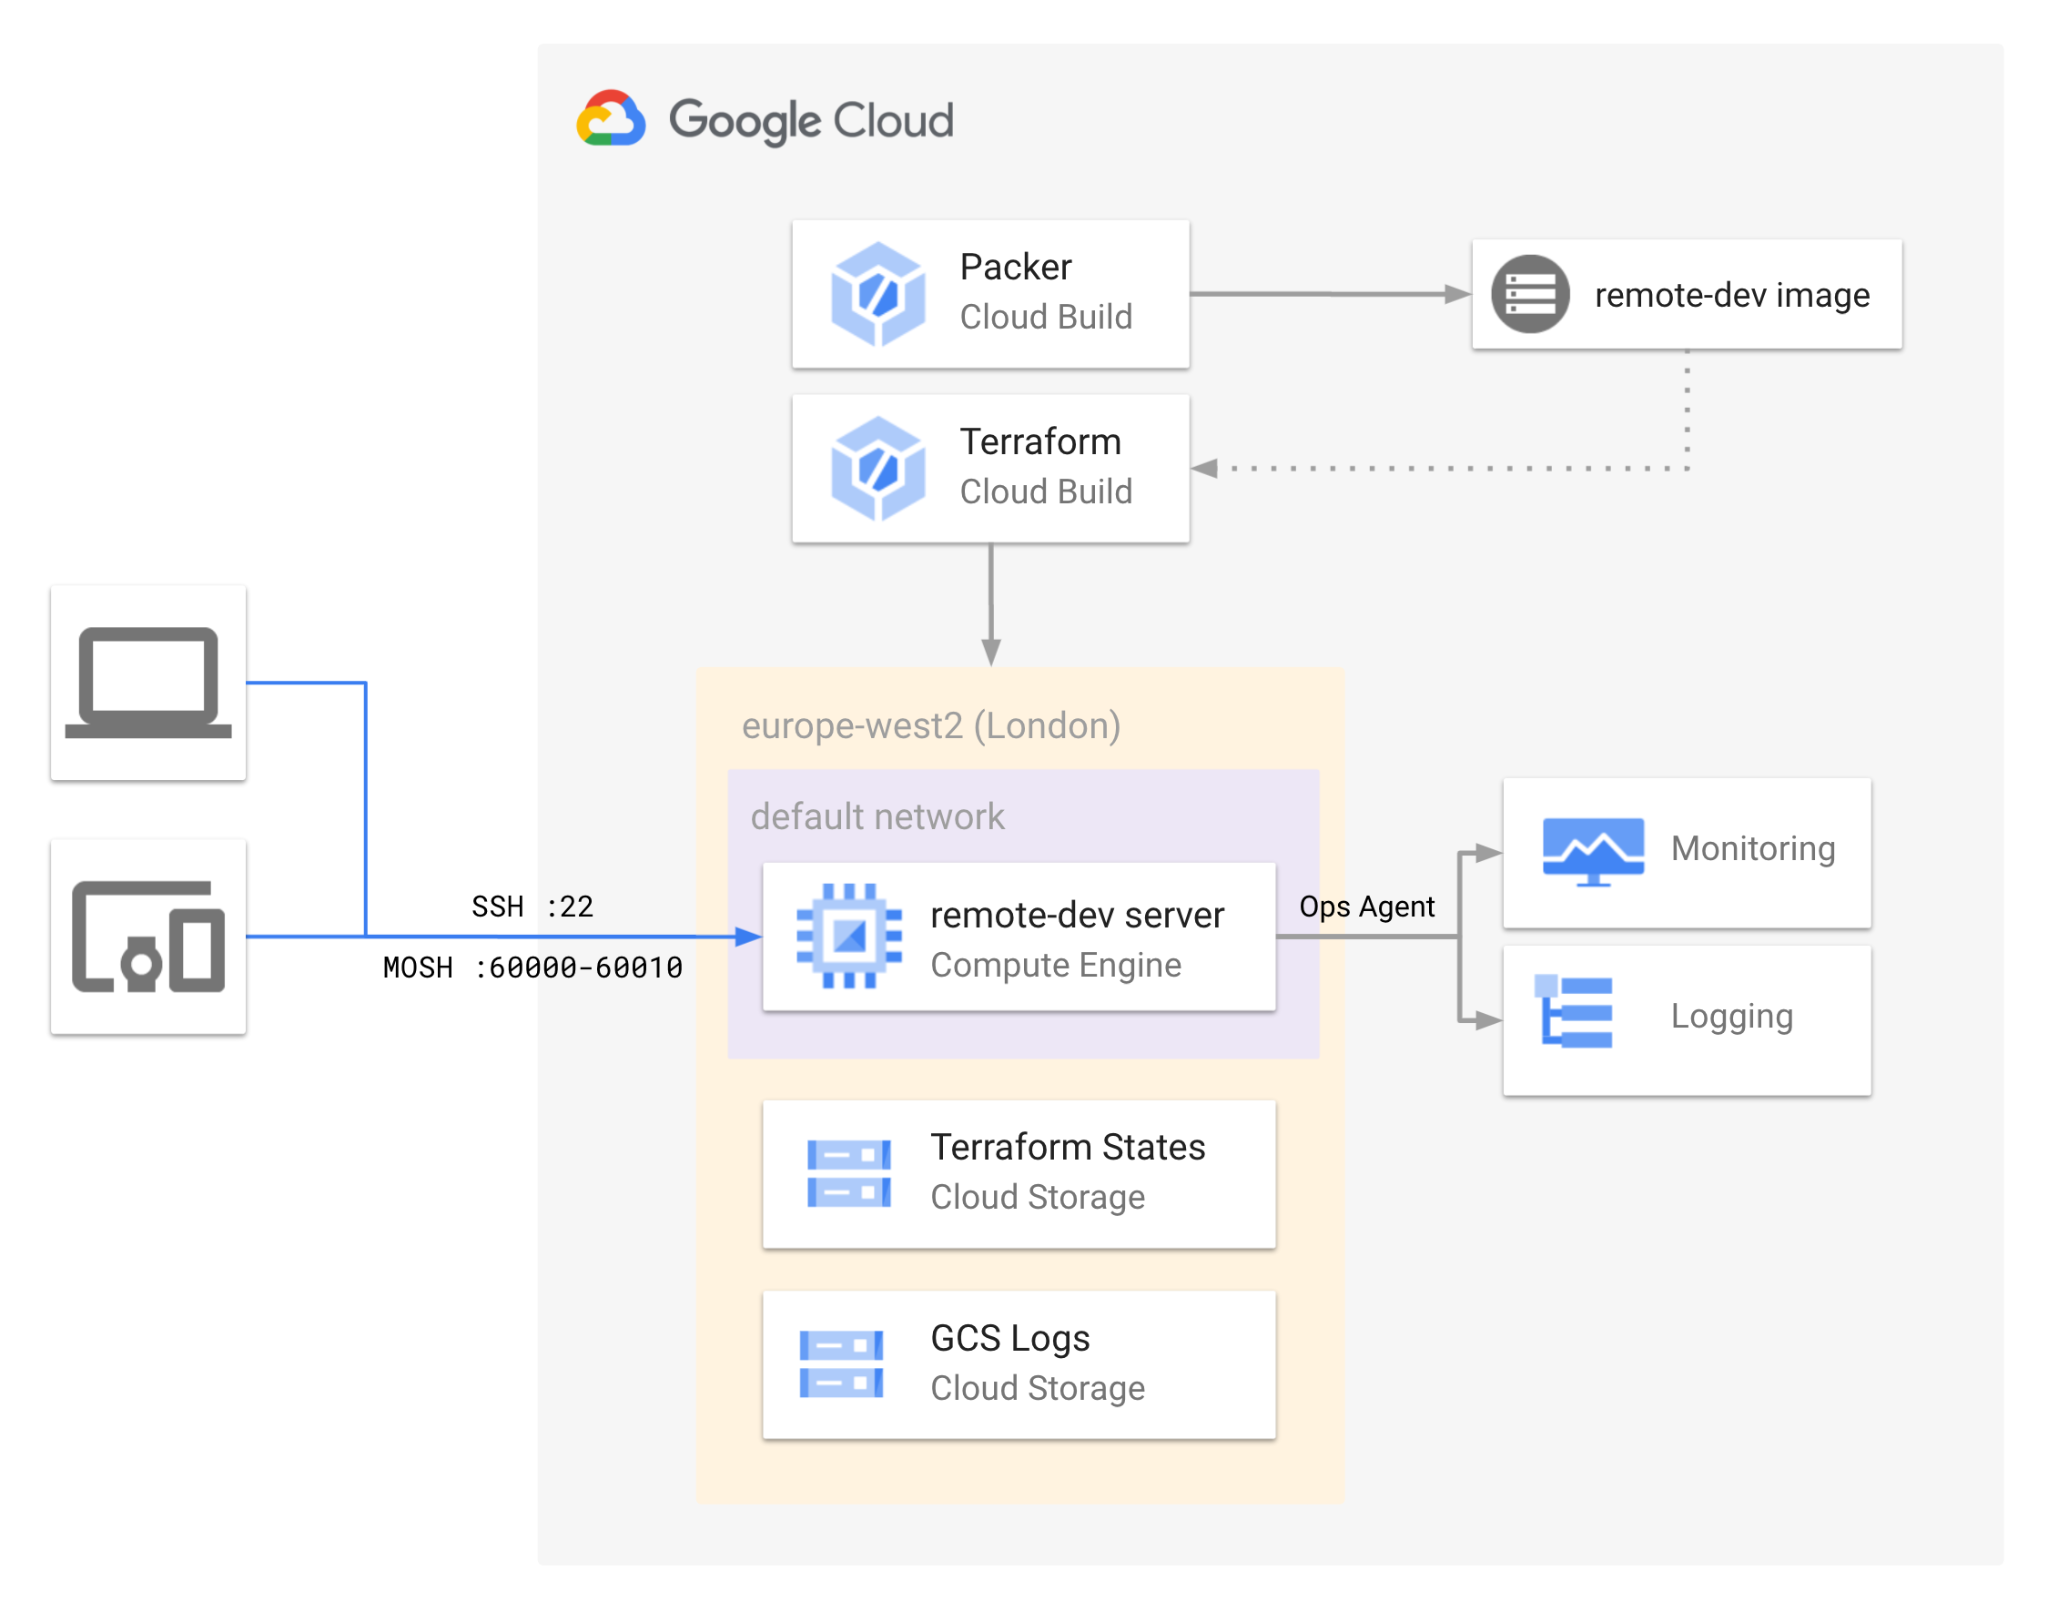
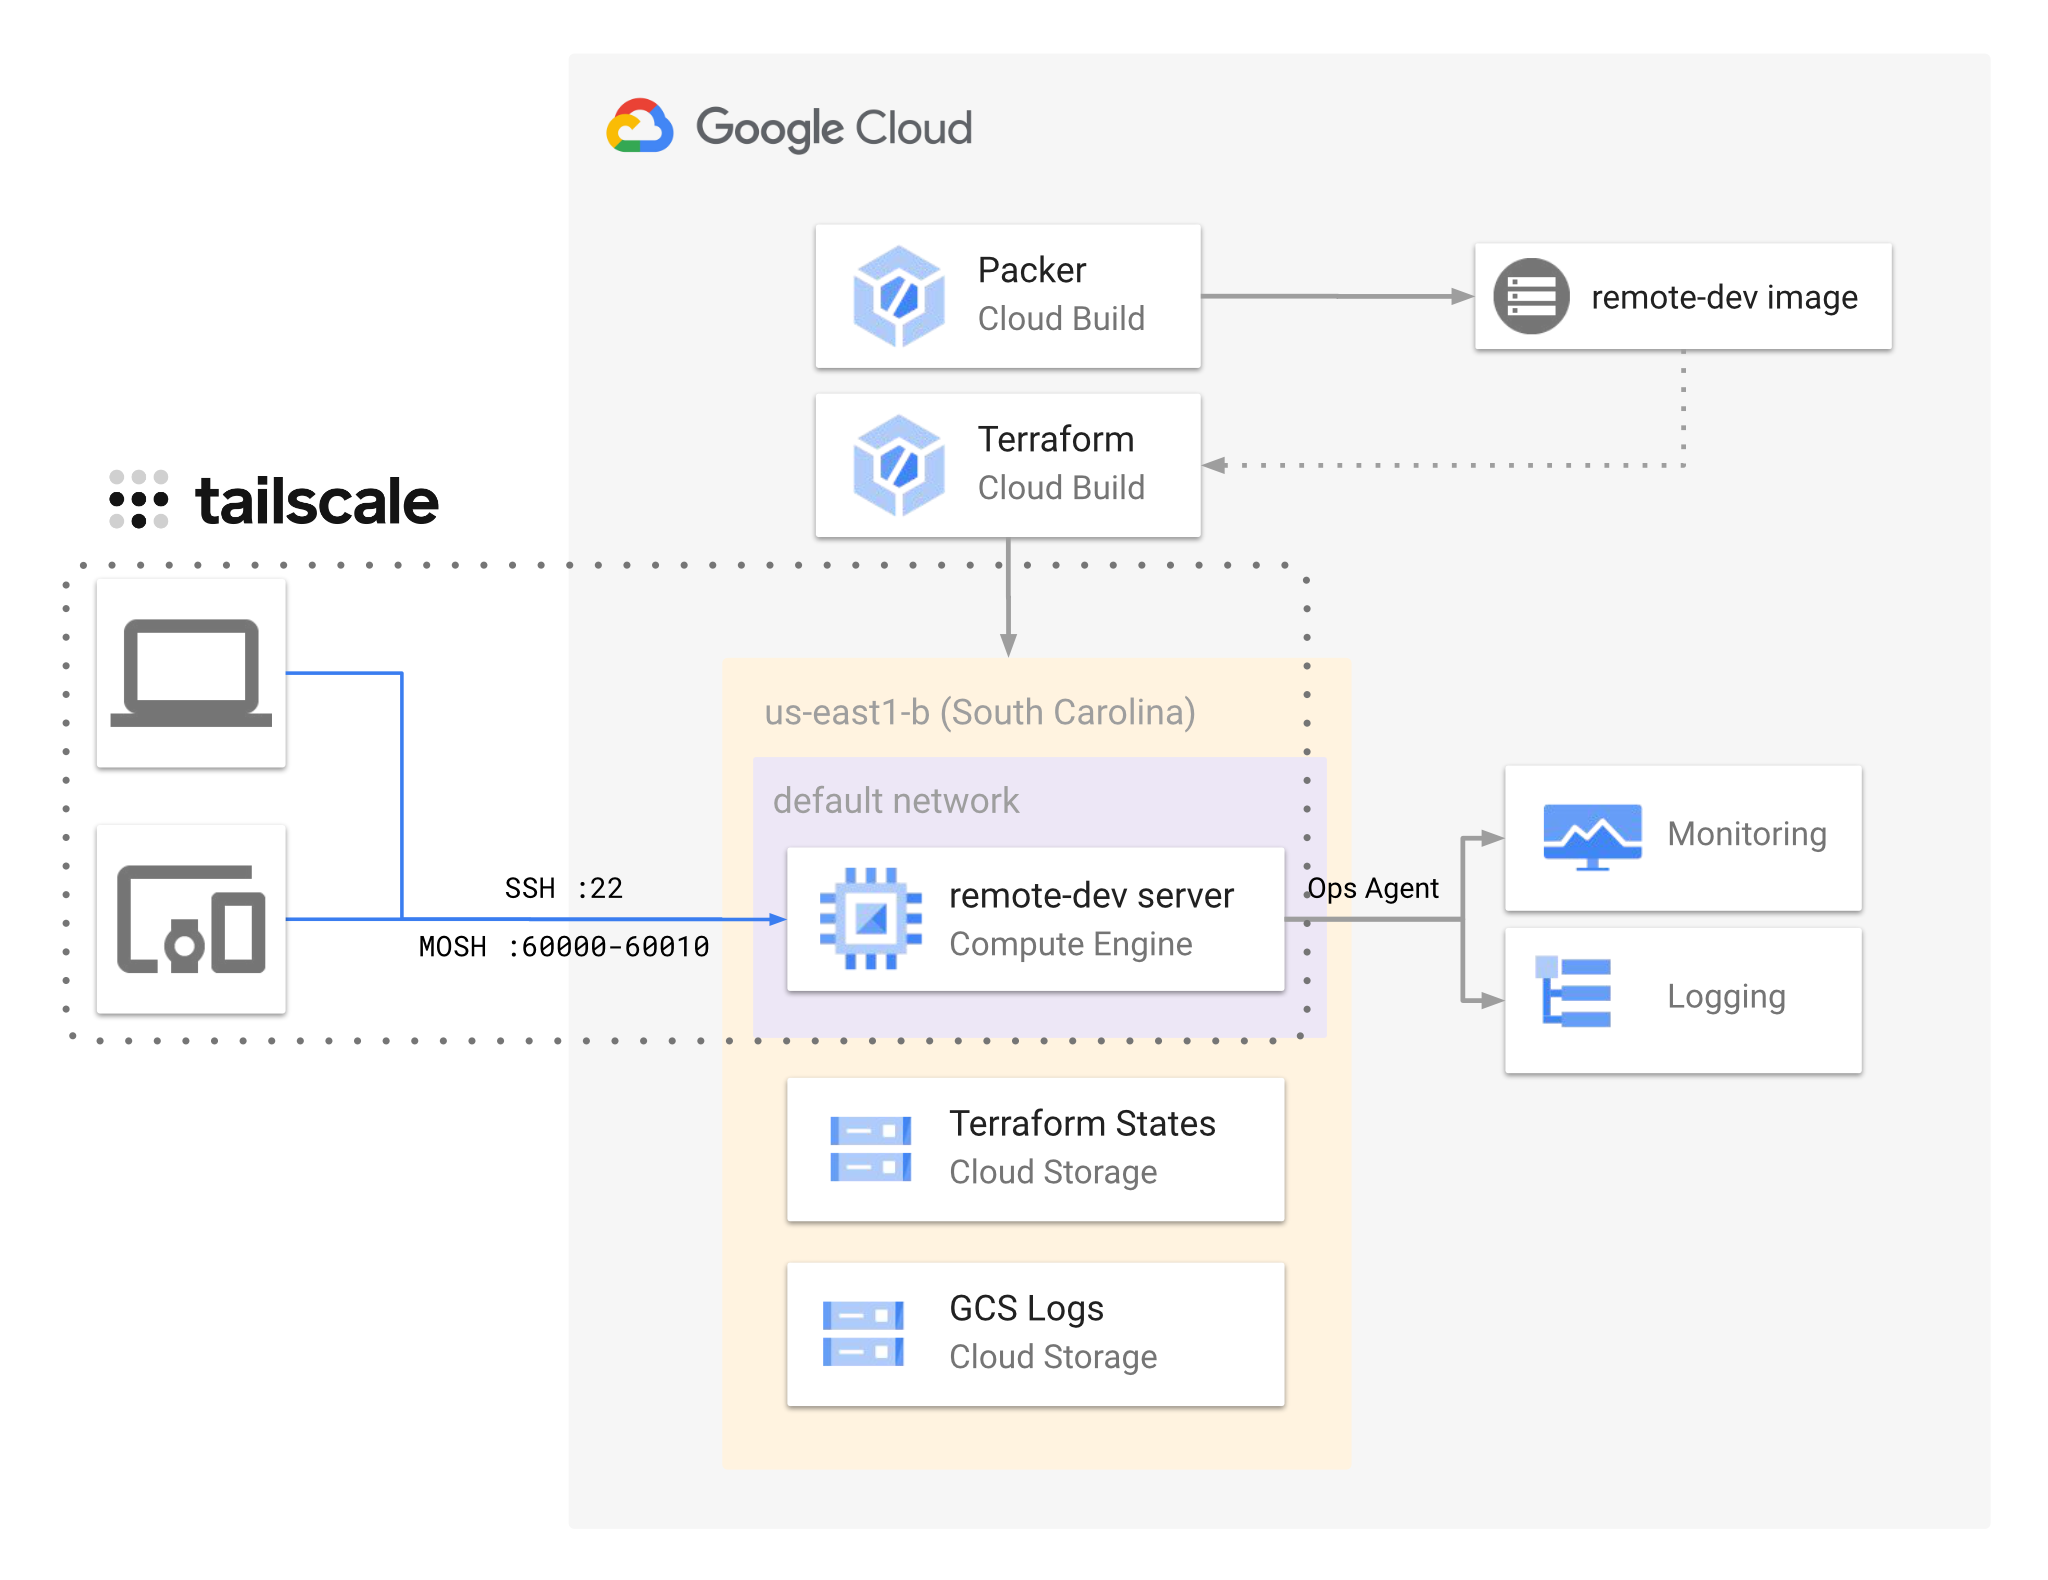
Moves everything to us-east1 and adds Tailscale documentation

diff --git a/README.md b/README.md
@@ -43,11 +43,16 @@
 
 ## ✅ Prerequisites
 
-The configuration files in this repository help automate the provisioning of a development server on **Google Cloud Platform**. An image is built with [Packer](https://packer.io/) and deployed on an `f1-micro` **Compute Engine** instance with [Terraform](https://www.terraform.io/), all via **Cloud Build**, falling in the free-tier.
+This repository helps automate the provisioning of an ephemeral development server on
+[Google Cloud Platform](https://cloud.google.com/). An immutable image is built with [Packer](https://packer.io/) and
+deployed on an `f1-micro` (in `us-east1-b` to fall in the free-tier) [Compute Engine](https://cloud.google.com/compute)
+instance with [Terraform](https://www.terraform.io/), all via [Cloud Build](https://cloud.google.com/cloud-build).
+The instance is only accessible via SSH and MOSH in your [Tailscale](https://tailscale.com/) network. Keep in mind
+you'll be charged for the External IP address.
 
 ### Generate your SSH key pair
 
-If you don't have an SSH key pair already, generate one:
+If you don't have an SSH key pair already, generate one (preferably with a high-entropy passphrase):
 
 ```bash
 ssh-keygen -o -a 100 -t ed25519 -C remote-dev
@@ -58,7 +63,7 @@ ssh-keygen -o -a 100 -t ed25519 -C remote-dev
 Open **Cloud Shell** and initialize the project:
 
 ```bash
-export PROJECT_ID="PUT_YOUR_PROJECT_ID_HERE"
+export PROJECT_ID="INSERT_PROJECT_ID_HERE"
 gcloud config set project $PROJECT_ID
 ```
 
@@ -101,13 +106,34 @@ In the `remote-dev` repository, submit the following **Cloud Build** job:
 
 ## 🚀 How to deploy the server
 
-In `remote-dev/terraform/env/prod/terraform.tfvars`, update the SSH user and public key with your own values.
+In `remote-dev/terraform/env/prod/terraform.tfvars`, replace the SSH user/public key and Tailscale machines IP addresses
+with your own values.
+
+Generate a [Tailscale one-off key](https://login.tailscale.com/admin/settings/authkeys) and set it:
+
+```bash
+export TAILSCALE_KEY="tskey-XXX"
+```
 
 Then in the `remote-dev` repository, submit the following **Cloud Build** jobs:
 
 ```bash
 (cd terraform/states; gcloud builds submit)
-(cd terraform; gcloud builds submit)
+(cd terraform; gcloud builds submit --substitutions=_TAILSCALE_KEY="${TAILSCALE_KEY}")
+```
+
+Once deployed, you can set explicit [Tailscale ACLs](https://login.tailscale.com/admin/acls) like the following to
+restrict network access in your mesh:
+
+```json
+{
+  "Hosts": {
+    "remote-dev": "INSERT_IP_ADDRESS_HERE"
+  },
+  "ACLs": [
+    { "Action": "accept", "Users": ["INSERT_USERNAME_HERE"], "Ports": ["remote-dev:22,60000-60010"] }
+  ]
+}
 ```
 
 ## 🧨 How to destroy the server
@@ -122,8 +148,9 @@ In the `remote-dev` repository, submit the following **Cloud Build** jobs:
 ## 🪄 Tech/frameworks used
 
 - [Google Cloud Build](https://cloud.google.com/cloud-build): A tool to "Continuously build, test, and deploy".
-- [Packer](https://www.packer.io): A tool to "Build Automated Machine Images".
-- [Terraform](https://www.terraform.io): A tool to "Write, Plan, and Create Infrastructure as Code".
+- [Packer](https://www.packer.io/): A tool to "Build Automated Machine Images".
+- [Terraform](https://www.terraform.io/): A tool to "Write, Plan, and Create Infrastructure as Code".
+- [Tailscale](https://tailscale.com/): A zero config WireGuard mesh VPN.
 
 ## 📃 License
 
